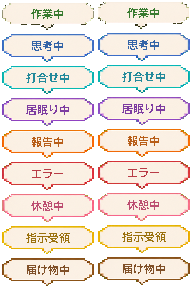
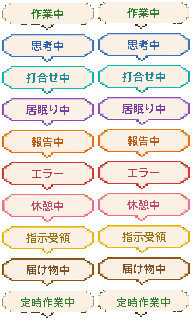
feat(pixel): 活動状態の動的表現・歩行2倍スケール・プログラム顔描画の廃止
- cron/heartbeat/task実行中は「定時作業中」バブル+作業アニメ(working_scheduled)
- 無活動が続いたanimaはsleepingへ減衰(待機=寝ている・Zzzコンパクト表示)
- running/startingステータスは待機(sleeping)として表示
- anima.tool_activityのctxで活動を検知しstateを更新、human(taka)は減衰対象外
- 歩行中キャラは縦横2倍で描画(着席クローズアップと顔サイズが揃う)
- 来客はcustomer_a/customer_bシートを使用し2倍描画(sampleへのハッシュフォールバック廃止)
- placeholderCharacter(プログラム顔描画)を完全廃止、透明シートにフォールバック
- bubbles.pngに定時作業中の行(row 9)を追加

diff --git a/server/static/workspace/pixel/modules/actors.js b/server/static/workspace/pixel/modules/actors.js
@@ -4,6 +4,7 @@ import { drawPixelText, measurePixelText } from "./pixel-text.js";
 const STATE_MAP = Object.freeze({
   idle: { animation: "idle", bubble: "bubble_break" },
   working: { animation: "working", bubble: "bubble_working" },
+  working_scheduled: { animation: "working", bubble: "bubble_cron" },
   thinking: { animation: "thinking", bubble: "bubble_thinking" },
   talking: { animation: "talking", bubble: "bubble_meeting" },
   reporting: { animation: "talking", bubble: "bubble_reporting" },
@@ -18,6 +19,18 @@ const COMPACT_STATUS_COLORS = Object.freeze({
   working: "#72b98e",
   success: "#e7bd5f",
   walking: "#6fa4bc",
+  sleeping: "#8f8ab8",
+});
+
+// Seconds without any runtime event before the displayed state decays toward
+// sleeping. Scheduled work keeps a longer grace because LLM turns can be
+// silent between tool calls.
+const STATE_DECAY_SECONDS = Object.freeze({
+  working_scheduled: 300,
+  working: 300,
+  thinking: 600,
+  idle: 180,
+  success: 90,
 });
 
 const NAME_TEXT_OPTIONS = Object.freeze({
@@ -32,8 +45,13 @@ function normalizeState(value) {
   const state = String(raw || "idle").toLowerCase();
   if (STATE_MAP[state]) return state;
   if (state === "not_found" || state === "stopped") return "sleeping";
+  // A running process with no observed activity is just waiting for work.
+  if (state === "running" || state === "starting") return "sleeping";
+  if (state.startsWith("cron") || state.startsWith("heartbeat") || state.startsWith("task")) {
+    return "working_scheduled";
+  }
   if (state.includes("bootstrap") || state.includes("think") || state.includes("process")) return "thinking";
-  if (state.includes("work") || state.includes("busy") || state.includes("running")) return "working";
+  if (state.includes("work") || state.includes("busy")) return "working";
   if (state.includes("error") || state.includes("fail")) return "error";
   if (state.includes("sleep") || state.includes("stop") || state.includes("inactive")) return "sleeping";
   if (state.includes("talk") || state.includes("chat")) return "talking";
@@ -189,15 +207,25 @@ export class Actor {
     this.fxTime = 0;
     this.motion = null;
     this.isSeated = true;
+    this.idleSeconds = 0;
   }
 
   setState(value) {
     this.state = normalizeState(value);
+    this.idleSeconds = 0;
     const mapping = STATE_MAP[this.state];
     this.bubble = mapping.bubble;
     if (!this.motion) {
       this.sprite.setAnimation(this.isSeated ? mapping.animation : "walk_down");
     }
+  }
+
+  noteActivity() {
+    this.idleSeconds = 0;
+  }
+
+  renderScale() {
+    return this.isSeated ? 1 : 2;
   }
 
   walk(path, speed = 120) {
@@ -237,6 +265,12 @@ export class Actor {
 
   update(deltaSeconds) {
     this.fxTime += deltaSeconds;
+    this.idleSeconds += deltaSeconds;
+    const decayLimit = STATE_DECAY_SECONDS[this.state];
+    if (decayLimit && !this.isHuman && this.isSeated && !this.motion &&
+        this.idleSeconds > decayLimit) {
+      this.setState("sleeping");
+    }
     if (this.bubbleOverrideRemaining > 0) {
       this.bubbleOverrideRemaining = Math.max(0, this.bubbleOverrideRemaining - deltaSeconds);
       if (this.bubbleOverrideRemaining === 0) this.bubbleOverride = "";
@@ -302,6 +336,7 @@ export class Actor {
 
   draw(ctx) {
     const spriteY = this.spriteY();
+    const scale = this.renderScale();
     ctx.save();
     ctx.globalAlpha = 0.18;
     ctx.fillStyle = "#1b1218";
@@ -309,15 +344,15 @@ export class Actor {
     ctx.ellipse(
       Math.round(this.x),
       Math.round(spriteY - 2),
-      Math.max(18, Math.round(this.sprite.frameW * (this.isSeated ? 0.22 : 0.27))),
-      Math.max(5, Math.round(this.sprite.frameH * 0.065)),
+      Math.max(18, Math.round(this.sprite.frameW * scale * (this.isSeated ? 0.22 : 0.27))),
+      Math.max(5, Math.round(this.sprite.frameH * scale * 0.065)),
       0,
       0,
       Math.PI * 2,
     );
     ctx.fill();
     ctx.restore();
-    this.sprite.draw(ctx, this.x, spriteY, 1);
+    this.sprite.draw(ctx, this.x, spriteY, scale);
   }
 
   drawStatusOverlay(ctx, options = {}) {
@@ -456,7 +491,8 @@ export class Actor {
       sleeping: 28,
       error: 6,
     }[this.state] || 10;
-    return spriteY - this.sprite.frameH + headInset;
+    const scale = this.renderScale();
+    return spriteY - (this.sprite.frameH - headInset) * scale;
   }
 
   drawStateAccent(ctx, spriteY) {
@@ -606,6 +642,21 @@ export class ActorManager {
 
   setState(id, state) {
     this.get(id)?.setState(state);
+  }
+
+  // Runtime events (tool activity, heartbeats, cron work) keep the displayed
+  // state alive; without them the actor decays to sleeping.
+  noteActivity(id, ctx = "") {
+    const actor = this.get(id);
+    if (!actor) return;
+    actor.noteActivity();
+    const context = String(ctx || "").toLowerCase();
+    const chatty = ["thinking", "talking", "reporting", "error"].includes(actor.state);
+    if (context.startsWith("cron") || context.startsWith("task") || context === "heartbeat") {
+      if (!chatty) actor.setState("working_scheduled");
+    } else if (context === "chat" || context === "inbox") {
+      if (actor.state === "sleeping" || actor.state === "idle") actor.setState("thinking");
+    }
   }
 
   update(deltaSeconds) {

diff --git a/server/static/workspace/pixel/modules/assets.js b/server/static/workspace/pixel/modules/assets.js
@@ -3,11 +3,6 @@ import { resolveBasePath } from "./scene-layout.js";
 
 const ASSET_ROOT = new URL("../assets/", import.meta.url);
 
-const SAMPLE_COLORS = Object.freeze([
-  "#ef7f8f", "#34466f", "#684077", "#e6d5b8",
-  "#eaa5bb", "#72bce4", "#68a66b", "#9b71b3",
-]);
-
 const DEFAULT_ANIMS = Object.freeze({
   idle: { row: 0, frames: 4, fps: 4 },
   working: { row: 1, frames: 4, fps: 3 },
@@ -107,65 +102,11 @@ function sampleKey(id) {
   return `sample_${String(index + 1).padStart(2, "0")}`;
 }
 
-function placeholderCharacter(id, frameW = 64, frameH = 64) {
-  const sheet = canvas(frameW * 4, frameH * 10);
-  const ctx = sheet.getContext("2d");
-  const color = SAMPLE_COLORS[stableHash(id) % SAMPLE_COLORS.length];
-
-  for (let row = 0; row < 10; row += 1) {
-    for (let frame = 0; frame < 4; frame += 1) {
-      const x = frame * frameW;
-      const y = row * frameH;
-      const bob = frame % 2;
-      ctx.fillStyle = "#2a202b99";
-      ctx.fillRect(x + 18, y + 58, 28, 3);
-      ctx.fillStyle = shade(color, -35);
-      ctx.fillRect(x + 20, y + 35 + bob, 24, 24 - bob);
-      ctx.fillStyle = color;
-      ctx.fillRect(x + 16, y + 17 + bob, 32, 25);
-      ctx.fillStyle = "#f2d0b5";
-      ctx.fillRect(x + 21, y + 22 + bob, 22, 17);
-      ctx.fillStyle = "#2e2530";
-      ctx.fillRect(x + 25, y + 29 + bob, 3, 3);
-      ctx.fillRect(x + 36, y + 29 + bob, 3, 3);
-      if (row === 1) {
-        ctx.fillStyle = "#f2d0b5";
-        ctx.fillRect(x + 11 + frame * 2, y + 45, 8, 5);
-      } else if (row === 2) {
-        ctx.fillStyle = "#f2d0b5";
-        ctx.fillRect(x + 42, y + 36 - frame, 7, 7);
-      } else if (row === 3) {
-        ctx.fillStyle = "#58353a";
-        ctx.fillRect(x + 30, y + 35, 5, frame % 2 ? 2 : 4);
-      } else if (row >= 4 && row <= 6) {
-        ctx.fillStyle = shade(color, -60);
-        ctx.fillRect(x + 20 + (frame % 2) * 3, y + 56, 8, 6);
-        ctx.fillRect(x + 36 - (frame % 2) * 3, y + 56, 8, 6);
-      } else if (row === 7) {
-        ctx.fillStyle = "#dce8ff";
-        drawPixelText(ctx, "z", x + 45 + frame, y + 18 - frame * 2, {
-          fontSize: 5,
-          scale: 2,
-          color: "#fff6de",
-        });
-      } else if (row === 8) {
-        ctx.fillStyle = "#ffe580";
-        ctx.fillRect(x + 10, y + 12 + frame, 5, 5);
-        ctx.fillRect(x + 50, y + 18 - frame, 4, 4);
-      } else if (row === 9) {
-        ctx.fillStyle = "#ef6b64";
-        ctx.fillRect(x + 28, y + 8, 8, 8);
-      }
-      ctx.fillStyle = "#fff";
-      drawPixelText(ctx, id.toLowerCase(), x + frameW / 2, y + 48, {
-        fontSize: 4,
-        scale: 2,
-        align: "center",
-        color: "#fff6de",
-      });
-    }
-  }
-  return sheet;
+// Characters are always flip-book sprite sheets (codex-generated pixel art).
+// Program-drawn faces are abolished; when no sheet loads at all we render a
+// transparent sheet rather than synthesizing a face.
+function blankCharacterSheet(frameW = 96, frameH = 96) {
+  return canvas(frameW * 4, frameH * 10);
 }
 
 function placeholderProp(label, width, height, color = "#87694f") {
@@ -330,12 +271,14 @@ export class AssetStore {
       : sampleKey(normalized);
     const config = this.manifest.chars?.[declared] || {};
     const runtimeImage = this.runtimeCharacters.get(normalized);
-    const image = runtimeImage || this.images.get(`chars.${declared}`);
+    const image = runtimeImage ||
+      this.images.get(`chars.${declared}`) ||
+      this.images.get(`chars.${sampleKey(normalized)}`);
     const frameW = config.frameW || 96;
     const frameH = config.frameH || 96;
-    const key = `char:${id}:${frameW}:${frameH}`;
+    const key = `char:blank:${frameW}:${frameH}`;
     if (!image && !this.placeholders.has(key)) {
-      this.placeholders.set(key, placeholderCharacter(normalized, frameW, frameH));
+      this.placeholders.set(key, blankCharacterSheet(frameW, frameH));
     }
     return {
       image: image || this.placeholders.get(key),

diff --git a/server/static/workspace/pixel/modules/director.js b/server/static/workspace/pixel/modules/director.js
@@ -289,6 +289,7 @@ export class Director {
     await Promise.all([
       this.addEffect({
         type: "customer",
+        variant: Math.random() < 0.5 ? "customer_a" : "customer_b",
         fromX: customerX,
         fromY: customerY,
         x: handoffPosition.x,
@@ -446,9 +447,11 @@ export class Director {
     const trip = progress < 0.5 ? progress * 2 : (1 - progress) * 2;
     const x = effect.fromX + (effect.x - effect.fromX) * trip;
     const y = effect.fromY + (effect.y - effect.fromY) * trip;
-    const definition = this.assets.character("customer");
+    const definition = this.assets.character(effect.variant || "customer_a");
     const animation = definition.anims[progress < 0.5 ? "walk_up" : "walk_down"];
     const frame = Math.floor(effect.elapsed * animation.fps) % animation.frames;
+    // Walking characters render at 2x, so the visiting customer matches.
+    const scale = 2;
     const backgroundDoor = this.scene.background_mode?.slots?.door;
     const door = this.scene.props.door_frame;
     const doorImage = backgroundDoor ? null : this.assets.prop("door_frame", 192, 112);
@@ -475,7 +478,7 @@ export class Director {
     ctx.globalAlpha = visible * 0.18;
     ctx.fillStyle = "#1a1116";
     ctx.beginPath();
-    ctx.ellipse(x, y - 3, 26, 6, 0, 0, Math.PI * 2);
+    ctx.ellipse(x, y - 3, 26 * scale, 6 * scale, 0, 0, Math.PI * 2);
     ctx.fill();
     ctx.globalAlpha = visible;
     ctx.drawImage(
@@ -484,10 +487,10 @@ export class Director {
       animation.row * definition.frameH,
       definition.frameW,
       definition.frameH,
-      Math.round(x - definition.frameW / 2),
-      Math.round(y - definition.frameH),
-      definition.frameW,
-      definition.frameH,
+      Math.round(x - (definition.frameW * scale) / 2),
+      Math.round(y - definition.frameH * scale),
+      definition.frameW * scale,
+      definition.frameH * scale,
     );
     ctx.restore();
     ctx.save();

diff --git a/server/static/workspace/pixel/modules/live.js b/server/static/workspace/pixel/modules/live.js
@@ -134,10 +134,17 @@ export class LiveClient {
       return;
     }
     if (type === "anima.heartbeat") {
+      // Completion event: the scheduled run just finished, drop back to idle
+      // (which then decays to sleeping without further activity).
+      const name = data.name || data.actor || data.target;
+      if (name && !this.actors.isHuman(name)) this.actors.setState(name, "idle");
       this.director.dispatch("heartbeat", data);
       return;
     }
     if (type === "anima.tool_activity") {
+      if (data.name && !this.actors.isHuman(data.name)) {
+        this.actors.noteActivity(data.name, data.ctx || data.meta?.ctx || "");
+      }
       this.handleToolActivity(data);
       return;
     }

diff --git a/server/static/workspace/pixel/modules/mock.js b/server/static/workspace/pixel/modules/mock.js
@@ -1,5 +1,5 @@
 const STATES = Object.freeze([
-  "idle", "working", "thinking", "talking", "sleeping",
+  "idle", "working", "working_scheduled", "thinking", "talking", "sleeping",
   "success", "error", "walking", "reporting",
 ]);
 
